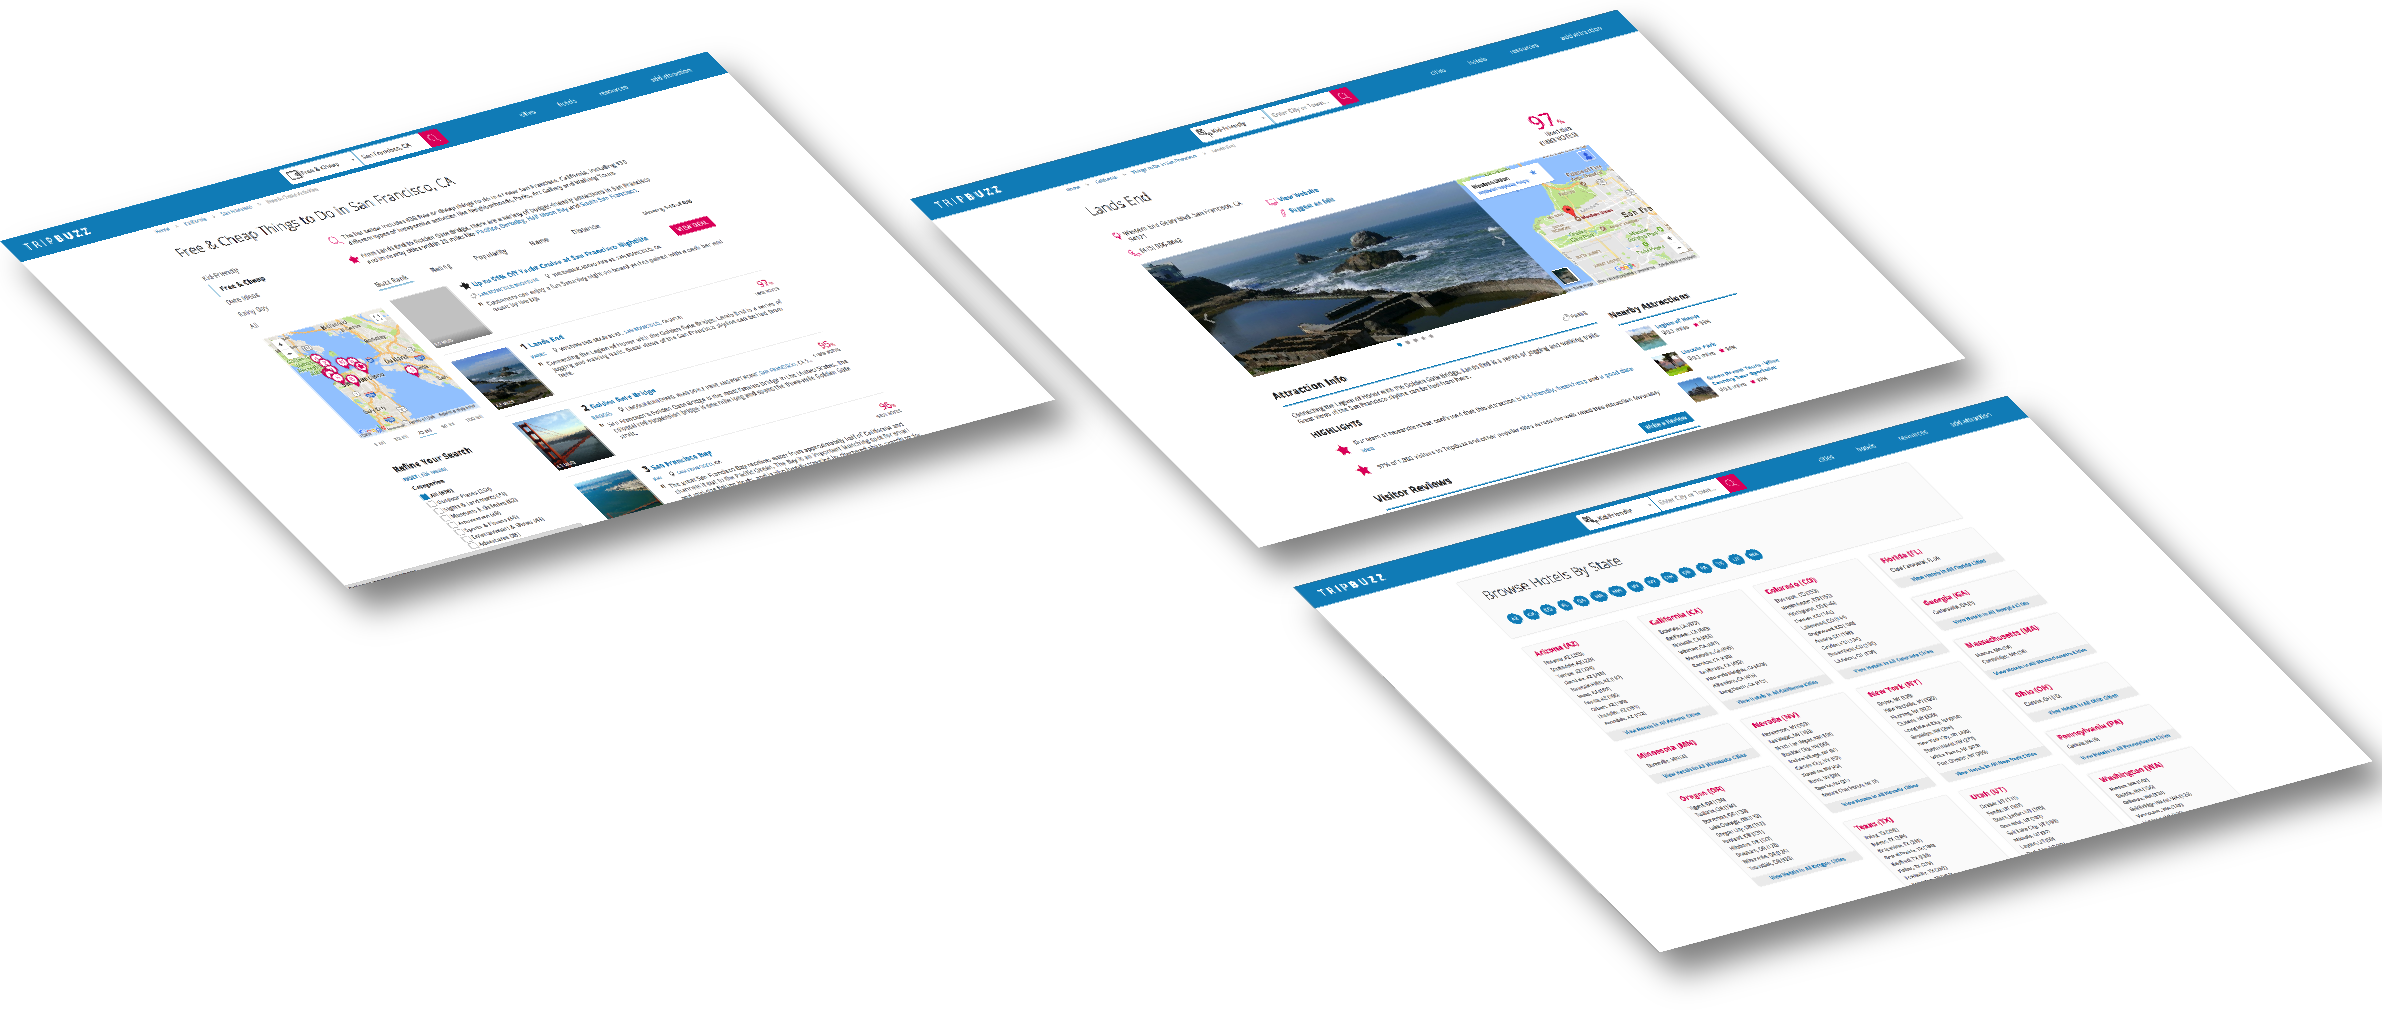
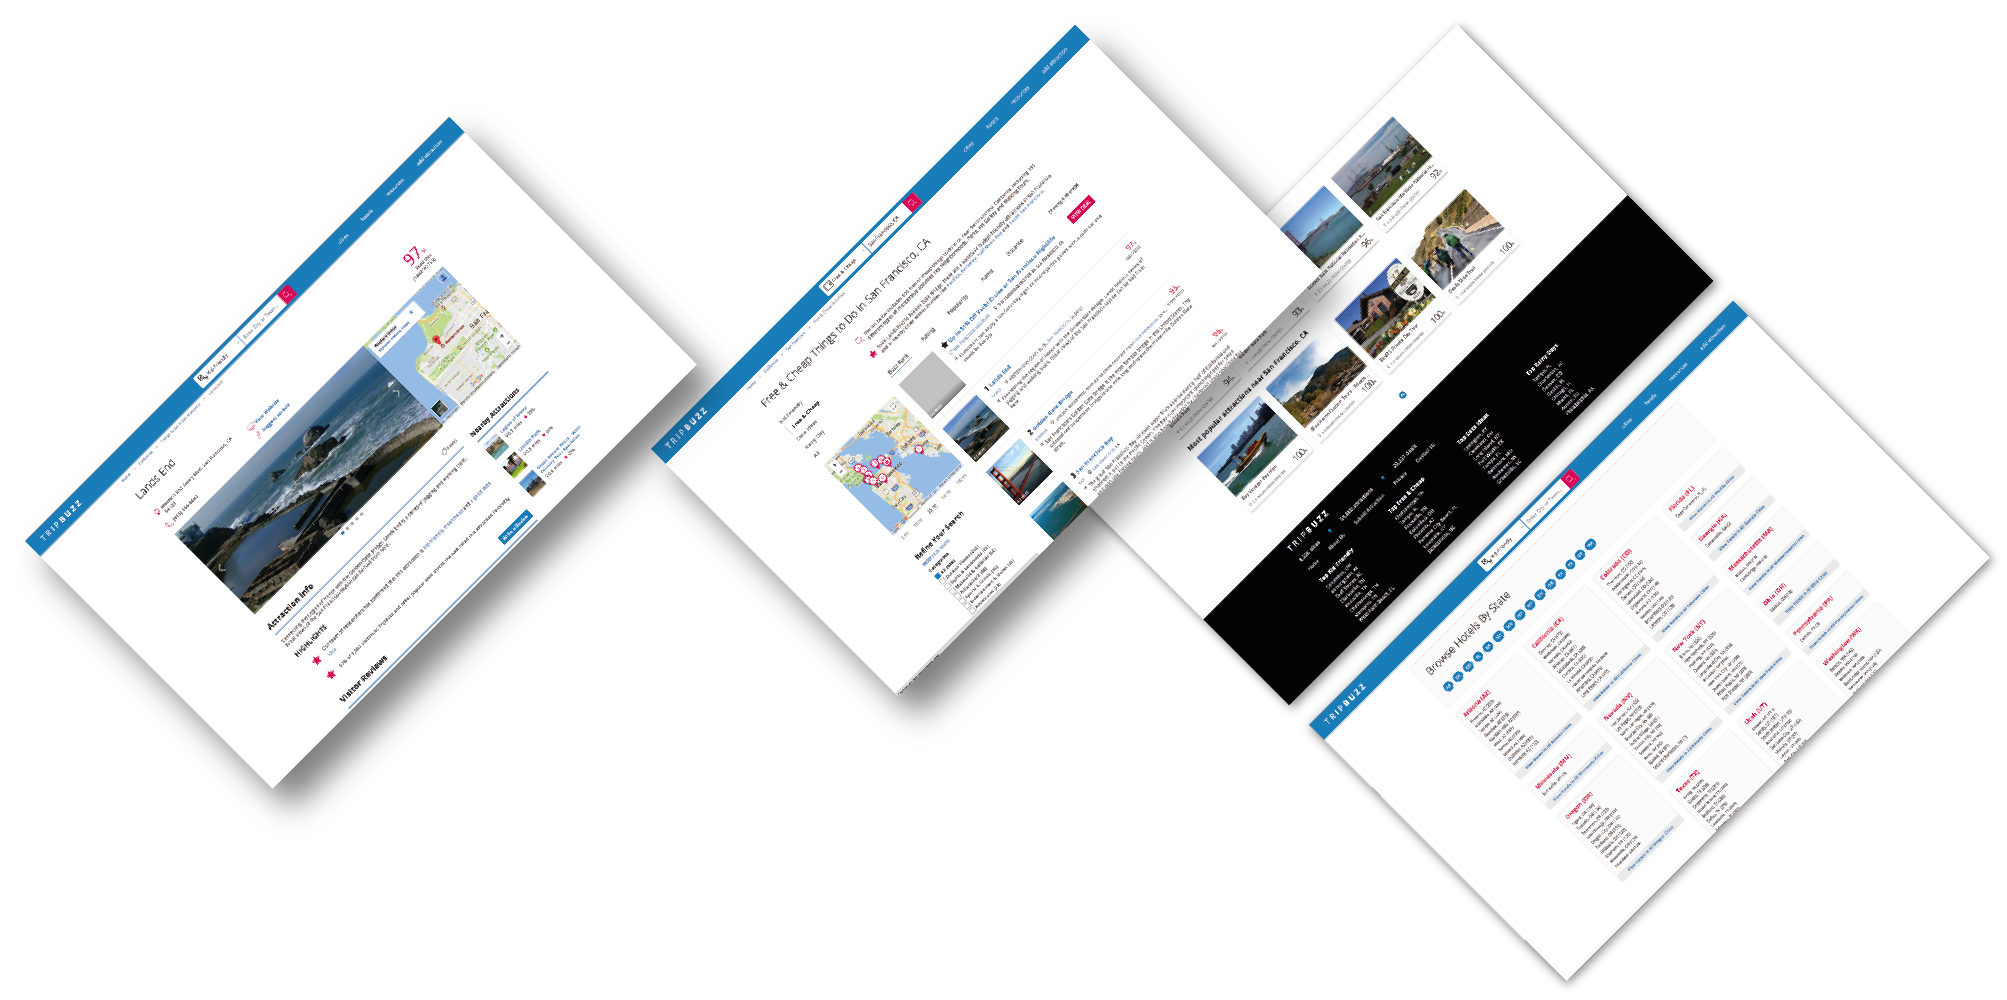
upadate tripbuzz

diff --git a/src/app/components/home-page/home-information/home-information-content/home-information-content.component.ts b/src/app/components/home-page/home-information/home-information-content/home-information-content.component.ts
@@ -12,11 +12,12 @@ export class HomeInformationContentComponent implements OnInit {
   @ViewChild('scrollableBox', {read: ElementRef}) scrollableBox: ElementRef;
 
   @HostBinding('class.box') boxContainer;
+  @HostBinding('class.hidden_motto') hideMotto;
 
   duration = AnimationConfig.duration;
   shaftPosition = 0;
 
-  constructor(private scrollController: ScrollController, private element: ElementRef) {
+  constructor(private scrollController: ScrollController) {
   }
 
   @HostListener('window:resize',[]) onResize(){
@@ -42,14 +43,18 @@ export class HomeInformationContentComponent implements OnInit {
   }
 
   calculateShaftPosition() {
+
     if (window.innerHeight * 1.7 > window.innerWidth){
       this.shaftPosition = -((window.innerHeight * 1.7 - window.innerWidth ) / 2);
+      this.hideMotto = false;
     }
     if (window.innerHeight * 1.06 > window.innerWidth) {
       this.shaftPosition = -((window.innerHeight * 1.06 - window.innerWidth ) / 2);
+      this.hideMotto = true;
     }
     if (window.innerHeight * 1.7 < window.innerWidth) {
       this.shaftPosition = 0;
+      this.hideMotto = false;
     }
   }
 }

diff --git a/src/app/components/home-page/home-information/home-information-content/home-information-content.component.scss b/src/app/components/home-page/home-information/home-information-content/home-information-content.component.scss
@@ -16,6 +16,11 @@
       margin-left: -80px;
     }
   }
+  &.hidden_motto {
+    article {
+      display: none;
+    }
+  }
 }
 
 div {
@@ -32,19 +37,35 @@ div {
     position: relative;
     header {
       position: absolute;
-      left:0;
-      top:0;
+      left: 0;
+      top: 0;
       img {
         height: 100vh;
         pointer-events: none;
         transition: .5s;
       }
-      .logo{
+      .logo {
         position: absolute;
         left: 0;
         top: 0;
         transform-origin: left top;
-        transform: translate(45%,15%) scale(0.7);
+        transform: translate(45%, 15%) scale(0.7);
+      }
+    }
+    article {
+      position: absolute;
+      top: 50%;
+      left: 50%;
+      color: #ffffff;
+      transform: translateY(-50%);
+      h1, p {
+        margin: 0;
+        font-size: 3.6rem;
+        line-height: normal;
+      }
+      p {
+        font-weight: 300;
+        max-width: 380px;
       }
     }
   }

diff --git a/src/app/components/home-page/home-information/home-information-content/home-information-content.component.html b/src/app/components/home-page/home-information/home-information-content/home-information-content.component.html
@@ -4,7 +4,10 @@
       <img src="assets/images/home_page_background.jpg" alt="Home Image">
       <img class="logo" src="assets/images/logo.svg" alt="CODE MINE">
     </header>
-    <p>head</p>
+    <article>
+      <h1>{{'HOME.motto.subtitle' | translate}}</h1>
+      <p> {{'HOME.motto.title' | translate}}</p>
+    </article>
   </section>
 
   <section [style.height]="duration+'px'" [class.container]="boxContainer" class="process_scroll_box"></section>

diff --git a/src/app/aplication/portfolio/portfolio-details/tripbuzz/tripbuzz.component.scss b/src/app/aplication/portfolio/portfolio-details/tripbuzz/tripbuzz.component.scss
@@ -83,6 +83,7 @@
     figcaption {
       display: none;
     }
+    padding-bottom: 100px;
   }
 
   img {
@@ -94,8 +95,8 @@
     margin-top: -100%;
     width: 100%;
     box-shadow: -10px 33px 52px -2px rgba(0, 0, 3, .48);
-    transform-origin: left bottom;
-    transform: translate(26.5%, 1%) rotateZ(-15deg) skew(-330deg) scale(0.37);
+    transform-origin: right top;
+    transform: translate(-72%, 51%) scale(.3635) rotate(-45deg);
   }
 }
 
